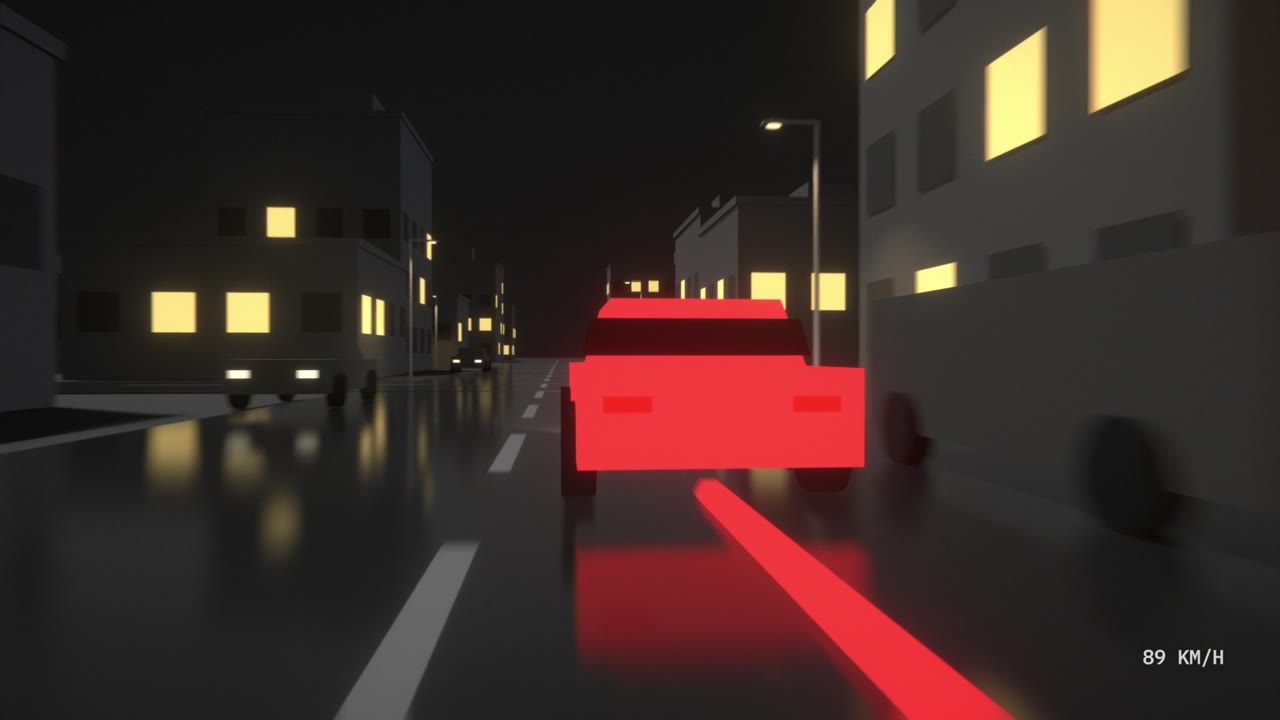
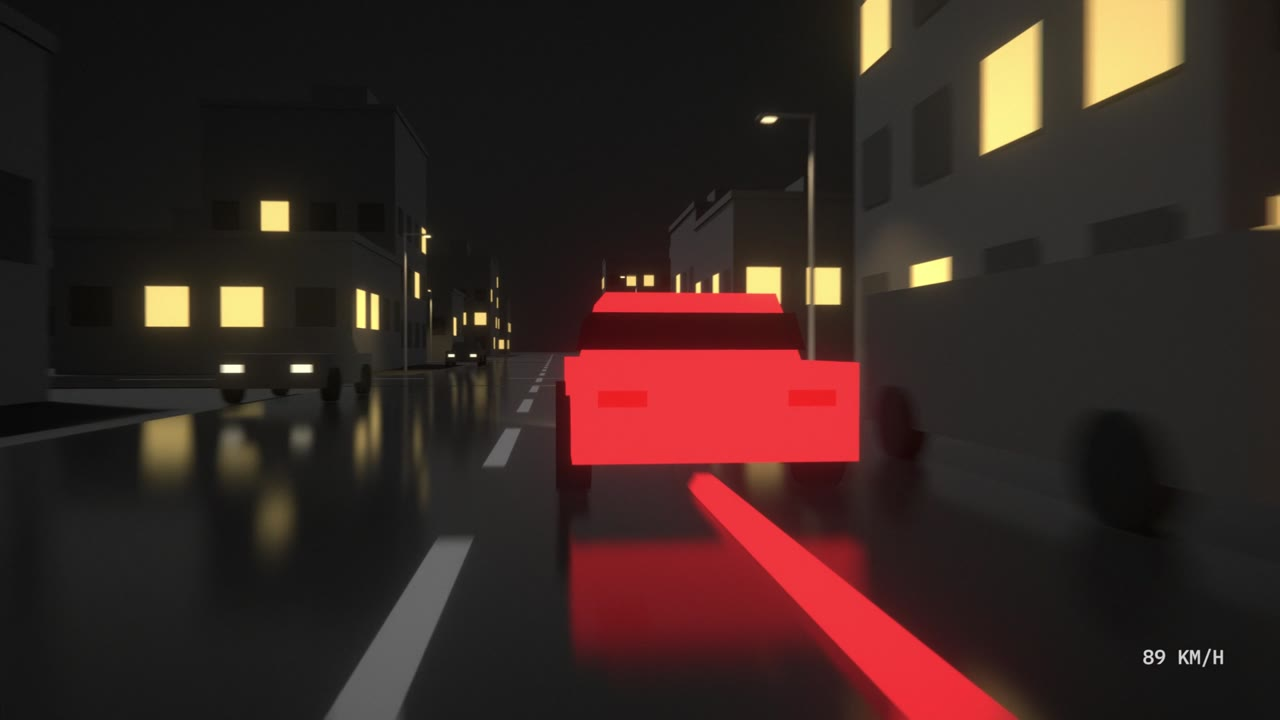
Gallery re-rendered with the corrected hands, fingers and hair; calmer camera shake in the chase and cabin scenes

diff --git a/scenes/06_night_chase.py b/scenes/06_night_chase.py
@@ -176,7 +176,7 @@ class NightChase(Scene):
         cam.follow(chase, offset=(0, 0, 0), t=6.0, dur=3.4)
         cam.cut(9.4, pos=tuple(lead(9.4)), look=car.anchor((0, 0, 0.8)), lens=35)      # 3. leading, police behind
         cam.follow(lead, offset=(0, 0, 0), t=9.4, dur=3.9)
-        cam.shake(0.07, t=6.0, dur=7.3, decay=False, freq=10)
+        cam.shake(0.05, t=6.0, dur=7.3, decay=False, freq=4)
 
         cam.cut(13.3, pos=(-16, 41, 21), look=(-51.5, 40.5, 0.5), lens=52)             # 4. high, down the street
         cam.push(0.16, t=13.3, dur=6.7, ease="out")

diff --git a/README.md b/README.md
@@ -92,7 +92,7 @@ The loop is built to be cheap in tokens:
 | check a moment | `python -m umbra sheet scene.py -t 4.2 -t 4.6 -t 5.0` | one image |
 | check detail | `python -m umbra still scene.py -t 6.5` | one 1080p frame |
 | check without rendering | `python -m umbra lint scene.py` | text only, no GPU, ~5 s |
-| deliver | `python -m umbra render scene.py` | mp4; the ten films here took 3–20 min each (median 7) at 1080p on an RTX 3070 |
+| deliver | `python -m umbra render scene.py` | mp4; the eleven films here took 3–21 min each (median 9) at 1080p on an RTX 3070 |
 
 <p align="center"><img src="docs/media/sheet.jpg" alt="A contact sheet" width="100%"><br>
 <sub>What an agent looks at: one contact sheet of the whole timeline.</sub></p>
